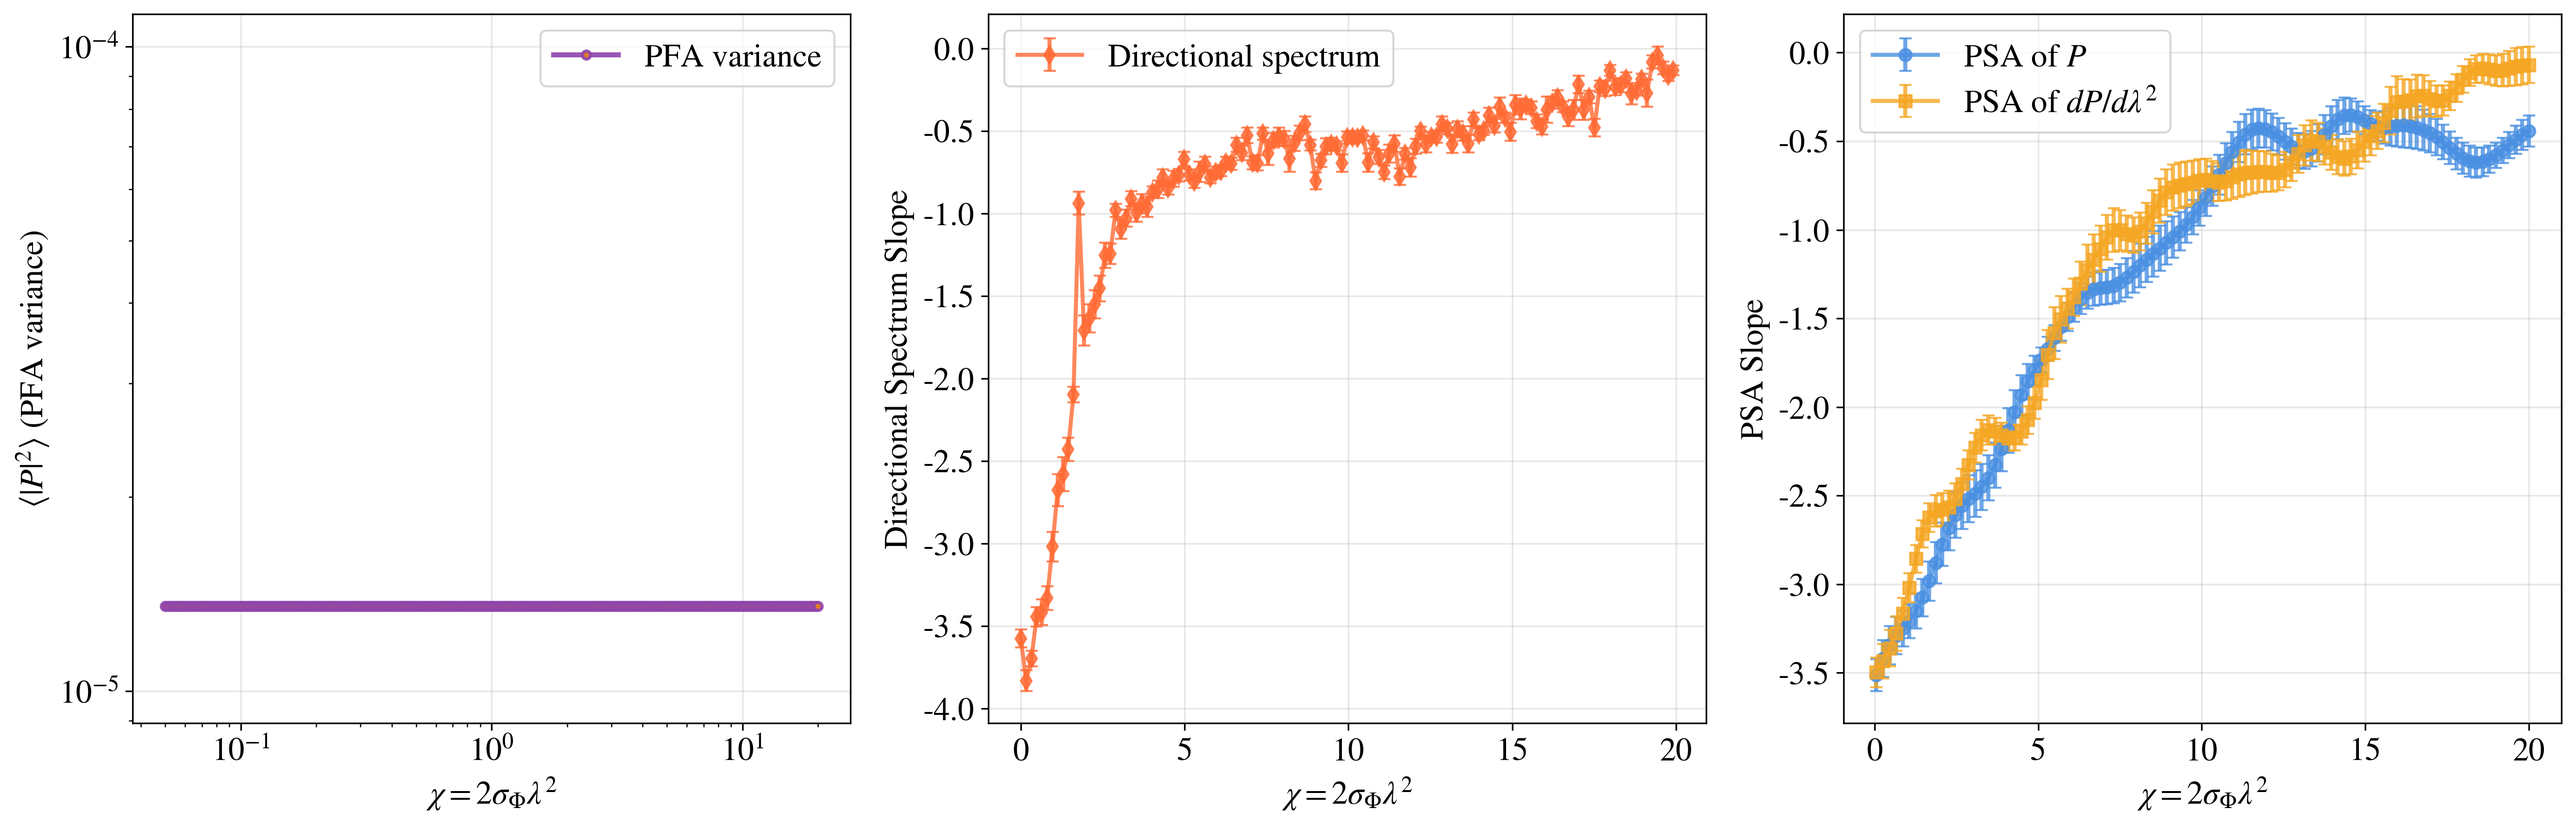
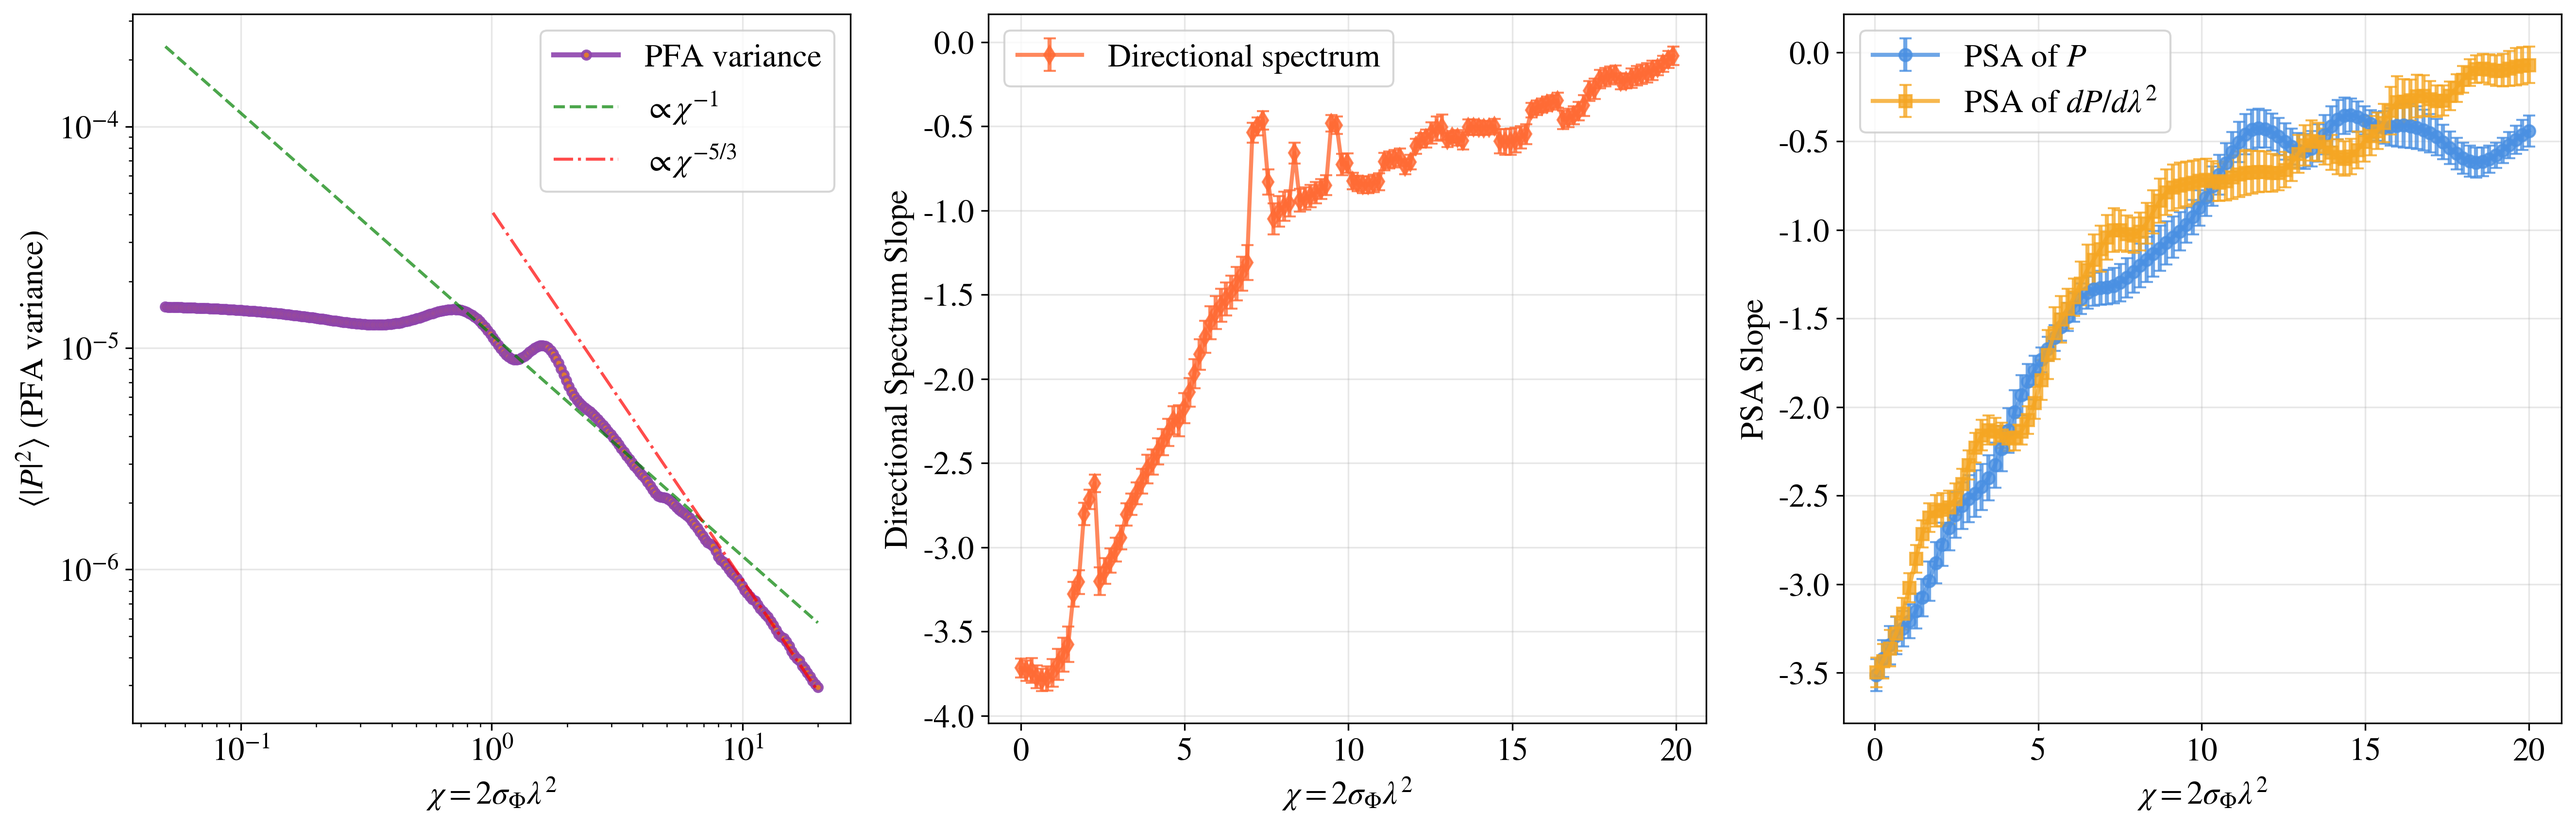
Prediction for PFA+separated directional

diff --git a/compare_measures/reproduce_directional_spectrum.py b/compare_measures/reproduce_directional_spectrum.py
@@ -4,7 +4,7 @@ Reproduce plots from saved NPZ data files.
 
 This script loads NPZ files from various analysis scripts and recreates the plots:
 1. curve_mixed_chi.npz from compute_pfa_vs_chi_lp16.py
-2. dir_slopes_vs_lambda_mixed_data.npz from run_directional_spectrum_vs_lambda.py  
+2. dir_slopes_vs_lambda_separated_data.npz from run_directional_spectrum_vs_lambda.py  
 3. psa_slopes_vs_chi_data.npz from run_spatial_psa_comparison.py
 """
 
@@ -245,6 +245,24 @@ def reproduce_pfa_variance_plot(npz_path: str, output_path: str = None):
     plt.figure(figsize=(10, 6))
     plt.loglog(chi_values, pfa_var, 'o-', markersize=4, alpha=0.9, 
                label='PFA variance', color='#8E44AD', linewidth=2.5, markerfacecolor='#E67E22', markeredgecolor='#8E44AD', markeredgewidth=1.5)
+    # Overlay reference chi^{-1} and chi^{-5/3} lines scaled to the first positive-chi point
+    try:
+        positive_mask = chi_values > 0
+        if np.any(positive_mask):
+            chi_pos = chi_values[positive_mask]
+            pfa_pos = pfa_var[positive_mask]
+            chi_ref = chi_pos[0]
+            pfa_ref = pfa_pos[0]
+            # chi^{-1}
+            ref_line = (pfa_ref * chi_ref) / chi_pos  # A/chi with A chosen to match first point
+            plt.loglog(chi_pos, ref_line, '--', color='gray', linewidth=1.5, alpha=0.7, label=r'$\propto \chi^{-1}$')
+            # chi^{-5/3}
+            half_idx = len(chi_pos) // 2
+            chi_pos_right = chi_pos[half_idx:]
+            ref_line_53_right = pfa_ref * (chi_ref / chi_pos_right)**(5/3)
+            plt.loglog(chi_pos_right, ref_line_53_right, '-.', color='dimgray', linewidth=1.5, alpha=0.7, label=r'$\propto \chi^{-5/3}$')
+    except Exception:
+        pass
     plt.xlabel('$\\chi = 2\\sigma_\\Phi \\lambda^2$')
     plt.ylabel('$\\langle|P|^2\\rangle$ (PFA variance)')
     plt.title('PFA Variance vs $\\chi$')
@@ -283,12 +301,12 @@ def create_combined_panel_plot(npz_dir: str = None):
     
     for npz_dir in npz_dirs:
         if pfa_npz_path is None:
-            test_path = os.path.join(npz_dir, "curve_mixed_chi_separated.npz")
+            test_path = os.path.join(npz_dir, "curve_mixed_chi_mixed.npz")
             if os.path.exists(test_path):
                 pfa_npz_path = test_path
         
         if dir_npz_path is None:
-            test_path = os.path.join(npz_dir, "dir_slopes_vs_lambda_mixed_data.npz")
+            test_path = os.path.join(npz_dir, "dir_slopes_vs_lambda_separated_data.npz")
             if os.path.exists(test_path):
                 dir_npz_path = test_path
         
@@ -322,6 +340,26 @@ def create_combined_panel_plot(npz_dir: str = None):
             
             axes[0].loglog(chi_values, pfa_var, 'o-', markersize=4, alpha=0.9, 
                           label='PFA variance', color='#8E44AD', linewidth=2.5, markerfacecolor='#E67E22', markeredgecolor='#8E44AD', markeredgewidth=1.5)
+            # Overlay reference chi^{-1} and chi^{-5/3} lines scaled to the first positive-chi point
+            try:
+                positive_mask = chi_values > 0
+                if np.any(positive_mask):
+                    chi_pos = chi_values[positive_mask]
+                    pfa_pos = pfa_var[positive_mask]
+                    chi_ref = chi_pos[0]
+                    pfa_ref = pfa_pos[0]
+                    # chi^{-1}
+                    ref_line = (pfa_ref * chi_ref) / chi_pos *15
+                    axes[0].loglog(chi_pos, ref_line, '--', color='green', linewidth=1.5, alpha=0.7, label=r'$\propto \chi^{-1}$')
+                    # chi^{-5/3} with the same visibility factor, plotted on the right half only
+                    half_idx = len(chi_pos) // 2
+                    chi_pos_right = chi_pos[half_idx:]
+                    ref_line_53_right = pfa_ref * (chi_ref / chi_pos_right)**(5/3) *400
+                    axes[0].loglog(chi_pos_right, ref_line_53_right, '-.', color='red', linewidth=1.5, alpha=0.7, label=r'$\propto \chi^{-5/3}$')
+                    
+
+            except Exception:
+                pass
             axes[0].set_xlabel('$\\chi = 2\\sigma_\\Phi \\lambda^2$')
             axes[0].set_ylabel('$\\langle|P|^2\\rangle$ (PFA variance)')
             # axes[0].set_title('PFA Variance vs $\\chi$')
@@ -414,7 +452,7 @@ def create_combined_panel_plot(npz_dir: str = None):
     # Define all possible NPZ files and their corresponding plot functions
     plot_configs = [
         # Directional spectrum plots
-        ("dir_slopes_vs_lambda_mixed_data.npz", reproduce_directional_original_plot),
+        ("dir_slopes_vs_lambda_separated_data.npz", reproduce_directional_original_plot),
         ("dir_slopes_vs_lambda_separated_data.npz", reproduce_directional_original_plot),
         ("dir_slopes_vs_chi_mixed_data.npz", reproduce_directional_sweep_plot),
         ("dir_slopes_vs_chi_separated_data.npz", reproduce_directional_sweep_plot),

diff --git a/compare_measures/run_directional_spectrum_vs_lambda.py b/compare_measures/run_directional_spectrum_vs_lambda.py
@@ -58,7 +58,7 @@ def main():
 
     parser = argparse.ArgumentParser(description="Directional spectrum slopes vs lambda")
     parser.add_argument("--h5", default=DEFAULT_H5_PATH, help="Path to HDF5 with fields")
-    parser.add_argument("--geometry", choices=["mixed", "separated"], default="mixed")
+    parser.add_argument("--geometry", choices=["mixed", "separated"], default="separated")
     parser.add_argument("--every", type=int, default=2, help="Use every Nth lambda for speed")
     parser.add_argument("--ring_bins", type=int, default=48)
     parser.add_argument("--pad", type=int, default=1)
